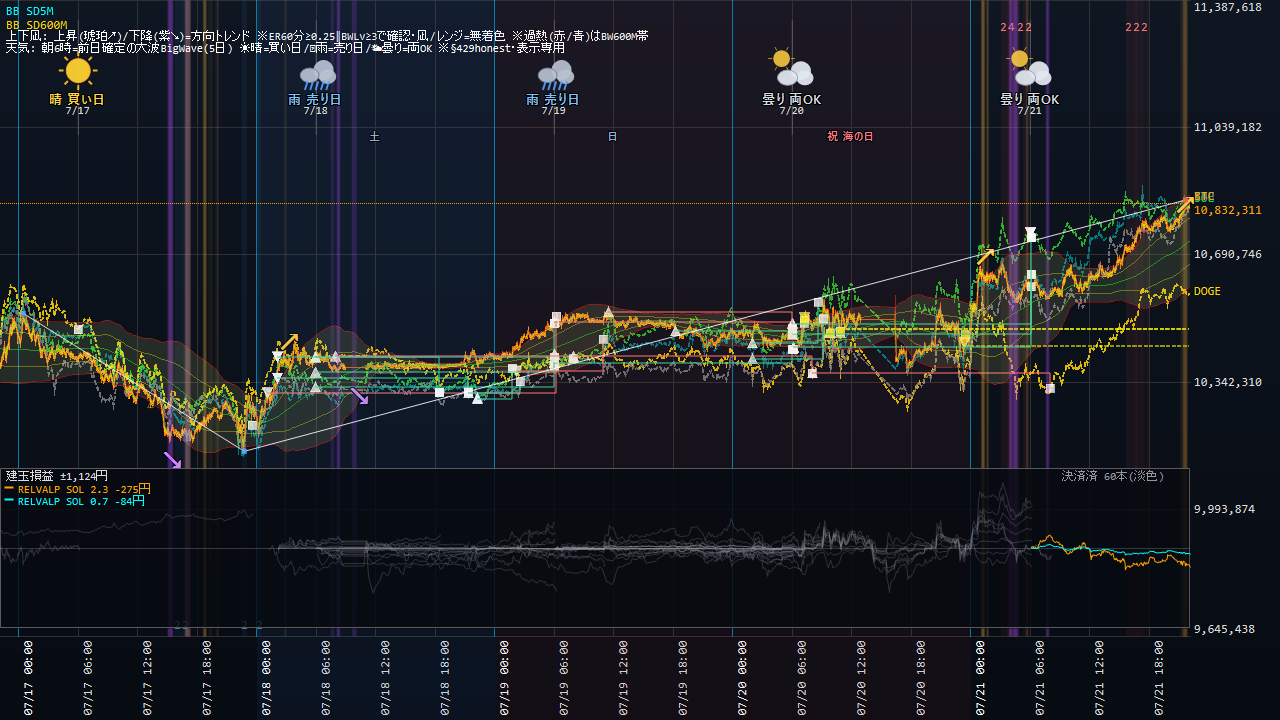
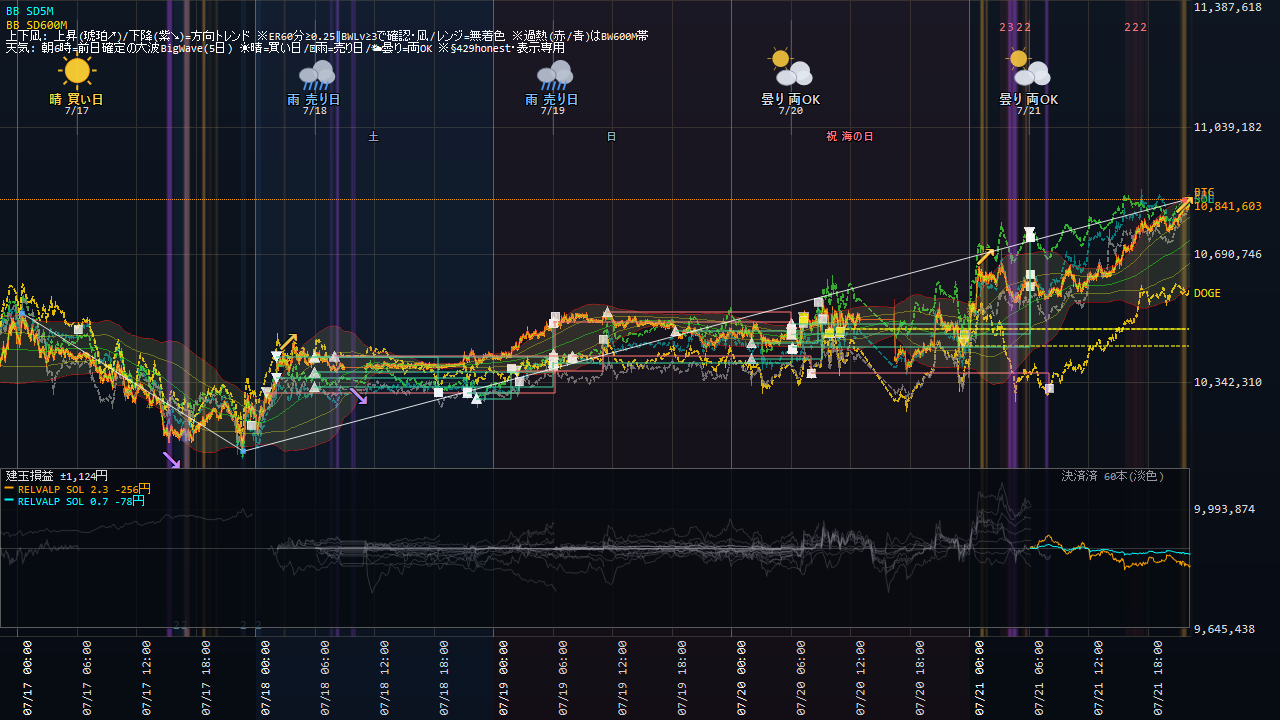
Coin100S 運用状況更新 07-21 22:17

diff --git a/coin100s-795hc4jfv8/index.html b/coin100s-795hc4jfv8/index.html
@@ -14,16 +14,16 @@ a{color:#60a5fa;text-decoration:none} a:hover{text-decoration:underline}
 .meta{color:#94a3b8;font-size:13px}</style>
 <script>setTimeout(function(){location.replace(location.pathname+"?t="+Date.now());},300000);</script></head><body>
 <h1>Coin100S ダッシュボード</h1>
-<p class="meta">スナップショット: 2026-07-21 22:11:06(自動リロード・最新化)</p>
+<p class="meta">スナップショット: 2026-07-21 22:17:07(自動リロード・最新化)</p>
 <div class="cards">
 <div class="card">建玉数<div class="v">2</div></div>
 <div class="card">本日損益<div class="v pos">+1,569円</div></div>
-<div class="card">評価損益<div class="v neg">-334円</div></div>
+<div class="card">評価損益<div class="v neg">-340円</div></div>
 </div>
 <h2>現在の建玉</h2>
-<table><tr><th>銘柄</th><th>側</th><th>数量</th><th>建値</th><th>含損益</th><th>レッグ</th></tr><tr><td>SOL_JPY</td><td>SELL</td><td>0.7</td><td>@12,663</td><td>-78円</td><td>RELVALP_SL700</td></tr><tr><td>SOL_JPY</td><td>SELL</td><td>2.3</td><td>@12,663</td><td>-256円</td><td>RELVALP_SELL</td></tr></table>
+<table><tr><th>銘柄</th><th>側</th><th>数量</th><th>建値</th><th>含損益</th><th>レッグ</th></tr><tr><td>SOL_JPY</td><td>SELL</td><td>0.7</td><td>@12,663</td><td>-80円</td><td>RELVALP_SL700</td></tr><tr><td>SOL_JPY</td><td>SELL</td><td>2.3</td><td>@12,663</td><td>-260円</td><td>RELVALP_SELL</td></tr></table>
 <p><a href="status.html"><b>▶ 運用状況の詳細(チャート・本日の取引・レジーム)</b></a></p>
 <h2>日報一覧</h2>
 <table><tr><th>取引日</th><th>実現損益</th><th>総括</th></tr><tr><td><a href='reports/20260720_Coin100S日報.html'>2026-07-20</a></td><td class="pos">+0円</td><td class='meta'>実取引: 新規8件/決済21件、実現損益 +0円。シグナル却下8件（最多: BW10M3_5M／トレンド方向ゲート(N分傾き上と不一致=逆張り方向のfade禁止)）。⚠警告/エラー 13件（要確認）。</td></tr><tr><td><a href='reports/20260719_Coin100S日報.html'>2026-07-19</a></td><td class="pos">+0円</td><td class='meta'>実取引: 新規10件/決済7件、実現損益 +0円。⚠警告/エラー 3件（要確認）。</td></tr><tr><td><a href='reports/20260718_Coin100S日報.html'>2026-07-18</a></td><td class="pos">+0円</td><td class='meta'>実取引: 新規9件/決済8件、実現損益 +0円。警告/孤児/エラーなし＝健全。</td></tr><tr><td><a href='reports/20260717_Coin100S日報.html'>2026-07-17</a></td><td class="pos">+0円</td><td class='meta'>実取引: 新規3件/決済2件、実現損益 +0円。シグナル却下1件（最多: BW10M3_5M／トレンド方向ゲート(N分傾き下と不一致=逆張り方向のfade禁止)）。⚠警告/エラー 2件（要確認）。</td></tr><tr><td><a href='reports/20260716_Coin100S日報.html'>2026-07-16</a></td><td class="pos">+0円</td><td class='meta'>実取引: 新規0件/決済5件、実現損益 +0円。⚠警告/エラー 7件（要確認）。</td></tr><tr><td><a href='reports/20260715_Coin100S日報.html'>2026-07-15</a></td><td class="pos">+0円</td><td class='meta'>実取引: 新規6件/決済5件、実現損益 +0円。シグナル却下6件（最多: BW10M3_5M／トレンド方向ゲート(N分傾き上と不一致=逆張り方向のfade禁止)）。⚠警告/エラー 7件（要確認）。</td></tr><tr><td><a href='reports/20260714_Coin100S日報.html'>2026-07-14</a></td><td class="pos">+0円</td><td class='meta'>実取引: 新規6件/決済18件、実現損益 +0円。シグナル却下5件（最多: BW10M3_5M／トレンド方向ゲート(N分傾き上と不一致=逆張り方向のfade禁止)）。⚠警告/エラー 9件（要確認）。</td></tr><tr><td><a href='reports/20260713_Coin100S日報.html'>2026-07-13</a></td><td class="pos">+0円</td><td class='meta'>実取引: 新規5件/決済8件、実現損益 +0円。シグナル却下1件（最多: BW10M3_5M／トレンド方向ゲート(N分傾き上と不一致=逆張り方向のfade禁止)）。警告/孤児/エラーなし＝健全。</td></tr><tr><td><a href='reports/20260712_Coin100S日報.html'>2026-07-12</a></td><td class="pos">+0円</td><td class='meta'>実取引: 新規14件/決済6件、実現損益 +0円。シグナル却下5件（最多: BW10M3_5M／トレンド方向ゲート(N分傾き下と不一致=逆張り方向のfade禁止)）。⚠警告/エラー 2件（要確認）。</td></tr><tr><td><a href='reports/20260711_Coin100S日報.html'>2026-07-11</a></td><td class="pos">+0円</td><td class='meta'>実取引: 新規7件/決済6件、実現損益 +0円。⚠警告/エラー 52件（要確認）。</td></tr><tr><td><a href='reports/20260710_Coin100S日報.html'>2026-07-10</a></td><td class="pos">+0円</td><td class='meta'>実取引: 新規7件/決済6件、実現損益 +0円。シグナル却下6件（最多: BW10M3_5M／トレンド方向ゲート(N分傾き上と不一致=逆張り方向のfade禁止)）。警告/孤児/エラーなし＝健全。</td></tr><tr><td><a href='reports/20260709_Coin100S日報.html'>2026-07-09</a></td><td class="pos">+0円</td><td class='meta'>実取引: 新規8件/決済3件、実現損益 +0円。シグナル却下5件（最多: SD120M_5M／トレンド方向ゲート(N分傾き上と不一致=逆張り方向のfade禁止)）。警告/孤児/エラーなし＝健全。</td></tr><tr><td><a href='reports/20260708_Coin100S日報.html'>2026-07-08</a></td><td class="pos">+0円</td><td class='meta'>実取引: 新規2件/決済4件、実現損益 +0円。シグナル却下4件（最多: SD120M_5M／トレンド方向ゲート(N分傾き下と不一致=逆張り方向のfade禁止)）。警告/孤児/エラーなし＝健全。</td></tr><tr><td><a href='reports/20260707_Coin100S日報.html'>2026-07-07</a></td><td class="pos">+0円</td><td class='meta'>実取引: 新規8件/決済6件、実現損益 +0円。シグナル却下4件（最多: SD120M_5M／トレンド方向ゲート(N分傾き上と不一致=逆張り方向のfade禁止)）。⚠警告/エラー 258件（要確認）。</td></tr><tr><td><a href='reports/20260706_Coin100S日報.html'>2026-07-06</a></td><td class="pos">+0円</td><td class='meta'>実取引: 新規9件/決済6件、実現損益 +0円。シグナル却下9件（最多: SD120M_5M／トレンド方向ゲート(N分傾き上と不一致=逆張り方向のfade禁止)）。⚠警告/エラー 150件（要確認）。</td></tr><tr><td><a href='reports/20260705_Coin100S日報.html'>2026-07-05</a></td><td class="pos">+0円</td><td class='meta'>実取引: 新規8件/決済3件、実現損益 +0円。⚠警告/エラー 2件（要確認）。</td></tr><tr><td><a href='reports/20260704_Coin100S日報.html'>2026-07-04</a></td><td class="pos">+0円</td><td class='meta'>実取引: 新規1件/決済2件、実現損益 +0円。⚠警告/エラー 2件（要確認）。</td></tr><tr><td><a href='reports/20260703_Coin100S日報.html'>2026-07-03</a></td><td class="pos">+0円</td><td class='meta'>実取引: 新規5件/決済4件、実現損益 +0円。⚠警告/エラー 15件（要確認）。</td></tr><tr><td><a href='reports/20260702_Coin100S日報.html'>2026-07-02</a></td><td class="pos">+0円</td><td class='meta'>実取引: 新規7件/決済5件、実現損益 +0円。シグナル却下17件（最多: SD120M_5M／トレンド方向ゲート(N分傾き上と不一致=逆張り方向のfade禁止)）。⚠警告/エラー 26件（要確認）。</td></tr><tr><td><a href='reports/20260701_Coin100S日報.html'>2026-07-01</a></td><td class="pos">+0円</td><td class='meta'>実取引: 新規14件/決済8件、実現損益 +0円。シグナル却下14件（最多: SD120M_5M／ボラ軸ゲート(SDN%&amp;gt;N%=高ボラ/荒れレンジ)）。⚠警告/エラー 2件（要確認）。</td></tr><tr><td><a href='reports/20260630_Coin100S日報.html'>2026-06-30</a></td><td class="pos">+0円</td><td class='meta'>実取引: 新規0件/決済1件、実現損益 +0円。シグナル却下29件（最多: 微5M／当日枠N）。警告/孤児/エラーなし＝健全。</td></tr></table>
-<hr><p class="meta">更新: 2026-07-21 22:11:30 / 自動生成: tools/web_publish.py(§580)</p>
+<hr><p class="meta">更新: 2026-07-21 22:17:13 / 自動生成: tools/web_publish.py(§580)</p>
 </body></html>

diff --git a/coin100s-795hc4jfv8/status.html b/coin100s-795hc4jfv8/status.html
@@ -14,22 +14,22 @@ a{color:#60a5fa;text-decoration:none} a:hover{text-decoration:underline}
 .meta{color:#94a3b8;font-size:13px}</style>
 <script>setTimeout(function(){location.replace(location.pathname+"?t="+Date.now());},300000);</script></head><body>
 <h1>Coin100S 運用状況</h1>
-<p class="meta">スナップショット: 2026-07-21 22:11:06 / ページ生成: 2026-07-21 22:11:29(自動リロード・最新化) / <a href="index.html">目次へ</a></p>
+<p class="meta">スナップショット: 2026-07-21 22:16:37 / ページ生成: 2026-07-21 22:17:12(自動リロード・最新化) / <a href="index.html">目次へ</a></p>
 <div class="cards">
 <div class="card">建玉数<div class="v">2</div></div>
 <div class="card">本日損益<div class="v pos">+1,569円</div></div>
-<div class="card">評価損益<div class="v neg">-334円</div></div>
+<div class="card">評価損益<div class="v neg">-340円</div></div>
 </div>
 <h2>資産推移(直近30日)</h2>
-<img src="status_equity.png?t=2211" alt="equity">
+<img src="status_equity.png?t=2217" alt="equity">
 <h2>取引チャート(直近24h)</h2>
-<img src="status_chart.png?t=2211" alt="chart">
+<img src="status_chart.png?t=2217" alt="chart">
 <h2>建玉一覧</h2>
-<table><tr><th>銘柄</th><th>側</th><th>数量</th><th>建値</th><th>含損益</th><th>レッグ</th></tr><tr><td>SOL_JPY</td><td>SELL</td><td>0.7</td><td>@12,663</td><td>-78円</td><td>RELVALP_SL700</td></tr><tr><td>SOL_JPY</td><td>SELL</td><td>2.3</td><td>@12,663</td><td>-256円</td><td>RELVALP_SELL</td></tr></table>
+<table><tr><th>銘柄</th><th>側</th><th>数量</th><th>建値</th><th>含損益</th><th>レッグ</th></tr><tr><td>SOL_JPY</td><td>SELL</td><td>0.7</td><td>@12,663</td><td>-80円</td><td>RELVALP_SL700</td></tr><tr><td>SOL_JPY</td><td>SELL</td><td>2.3</td><td>@12,663</td><td>-260円</td><td>RELVALP_SELL</td></tr></table>
 <h2>実現決済履歴(直近15件・OrderId単位)</h2>
 <table><tr><th>決済時刻</th><th>レッグ</th><th>銘柄</th><th>実現損益</th></tr><tr><td>07-21 08:07</td><td>TENKI5D_REV_DOGE</td><td>DOGE</td><td class="neg">-210円</td></tr><tr><td>07-21 06:11</td><td>TENKI5D_REV_ETH</td><td>ETH</td><td class="pos">+622円</td></tr><tr><td>07-21 06:11</td><td>TENKI5D_REV_ETH</td><td>ETH</td><td class="pos">+124円</td></tr><tr><td>07-21 06:09</td><td>TENKI5D_REV_SOL</td><td>SOL</td><td class="pos">+287円</td></tr><tr><td>07-21 06:09</td><td>TENKI5D_REV_SOL</td><td>SOL</td><td class="pos">+454円</td></tr><tr><td>07-21 06:09</td><td>TENKI5D_REV_BTC</td><td>BTC</td><td class="pos">+649円</td></tr><tr><td>07-21 06:08</td><td>RELVALP_SELL</td><td>LTC</td><td class="neg">-267円</td></tr><tr><td>07-21 06:08</td><td>RELVALP_SL700</td><td>LTC</td><td class="neg">-90円</td></tr><tr><td>07-20 23:29</td><td>BW10M3_5M</td><td>BTC</td><td class="neg">-45円</td></tr><tr><td>07-20 10:58</td><td>BW10M3_5M</td><td>BTC</td><td class="pos">+7円</td></tr><tr><td>07-20 09:56</td><td>BW10M3_5M</td><td>BTC</td><td class="neg">-6円</td></tr><tr><td>07-20 09:11</td><td>SIGFADE_ETH</td><td>ETH</td><td class="pos">+370円</td></tr><tr><td>07-20 08:45</td><td>SIGFADE_SOL</td><td>SOL</td><td class="pos">+380円</td></tr><tr><td>07-20 08:04</td><td>TENKI5D_REV_DOGE</td><td>DOGE</td><td class="neg">-249円</td></tr><tr><td>07-20 07:16</td><td>BW10M3_5M</td><td>BTC</td><td class="pos">+17円</td></tr></table>
 <!-- §799c 「本取引日の実取引(6:00起点)」テーブルは公開ページから削除(ユーザー指示2026-07-15・数量/指値まで晒す情報漏れ)。建玉/実現損益は許可・実発注の生取引明細は非公開 -->
 <h2>現在レジーム(3軸・§570c)</h2>
-<ul><li>アルト対BTC 5日: <b>-121bps</b>(アルト劣後=RELVAL順風)</li><li>BTC ER240m: <b>0.110</b>(閾値0.25→レンジ(fade順風/BWTRD逆風))</li><li>BTC実現ボラ240m: <b>3.53</b> bps/分</li></ul>
+<ul><li>アルト対BTC 5日: <b>-121bps</b>(アルト劣後=RELVAL順風)</li><li>BTC ER240m: <b>0.096</b>(閾値0.25→レンジ(fade順風/BWTRD逆風))</li><li>BTC実現ボラ240m: <b>3.64</b> bps/分</li></ul>
 <hr><p class="meta">自動生成: tools/web_publish.py(§580・読み取り専用)。売買判断はアプリ本体。</p>
 </body></html>
